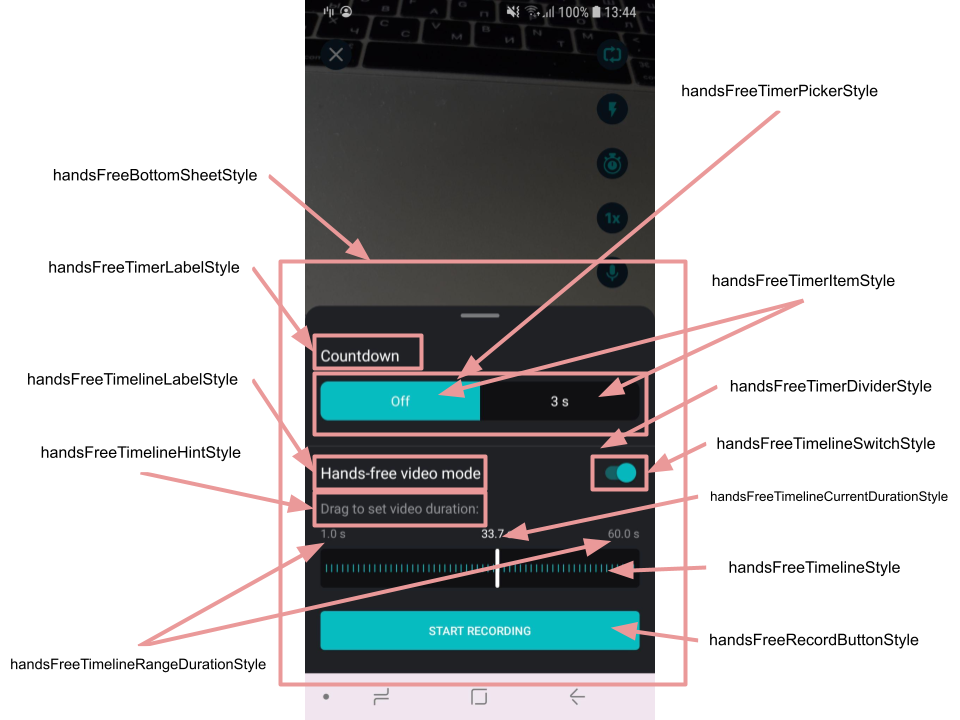
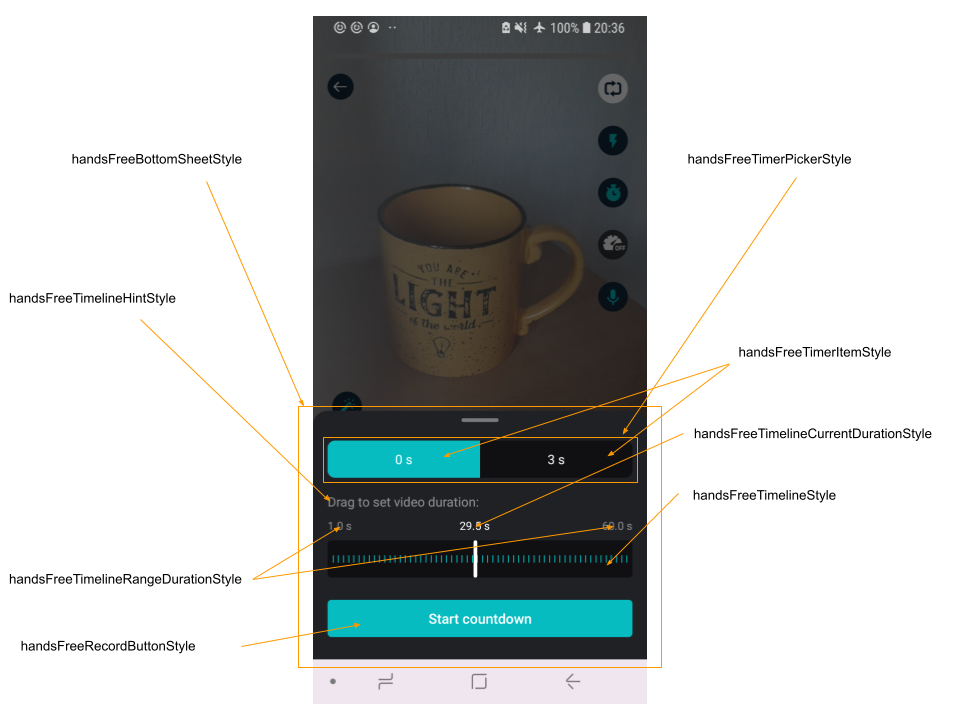
Update hands free  documentation

diff --git a/mddocs/hands_free.md b/mddocs/hands_free.md
@@ -10,7 +10,7 @@ Hands-Free feature uses `CameraTimerStateProvider` implementation for available 
 
 Every chosen delay (`TimerEntry` object) from `CameraTimerStateProvider` passed as an argument into `animate()` method of `CameraTimerAnimationProvider`. 
 
-**Note**: We provide `DefaultTimerAnimationProvider` with 10-seconds timer animation. If you need either more than 10-seconds timer or another animation view you need to implement your own `CameraTimerAnimationProvider`.
+**Note**: We provide `DefaultCameraTimerAnimationProvider` with 10-seconds timer animation. If you need either more than 10-seconds timer or another animation view you need to implement your own `CameraTimerAnimationProvider`.
 
 If you want to disable hands free feature you should remove `CameraTimerActionProvider` implementation in `VideoEditorKoinModule`.
 ```diff
@@ -46,12 +46,8 @@ Customize Hands Free appearance by overriding default [styles](https://github.co
 Hands-Free is customized by [main theme attributes](https://github.com/Banuba/ve-sdk-android-integration-sample/blob/1e37324dea76304e8e9205d463844ac5c8c199f7/app/src/main/res/values/themes.xml#L347) like any other Video Editor SDK screens.
 
  - **handsFreeBottomSheetStyle** - style for the background of Hands Free feature
- - **handsFreeTimerLabelStyle** - style for the label of timer options
  - **handsFreeTimerPickerStyle** - style for the parent view containing timer options
  - **handsFreeTimerItemStyle** - style for every item within timer options container
- - **handsFreeTimerDividerStyle** - style for the divider that separates timer options and timeline settings
- - **handsFreeTimelineLabelStyle** - style for the label of timeline options
- - **handsFreeTimelineSwitchStyle** - style for the switcher that enables hands-free configurations
  - **handsFreeTimelineHintStyle** - style for the timeline hint
  - **handsFreeTimelineRangeDurationStyle** - style for the time labels that define min and max available video duration
  - **handsFreeTimelineCurrentDurationStyle** - style for the time label that define the video recording duration recently configured
@@ -64,8 +60,5 @@ Hands-Free is customized by [main theme attributes](https://github.com/Banuba/ve
 
 | ResourceId        |      Value      |   Description |
 | ------------- | :----------- | :------------- |
-| hands_free_timer_label | Countdown | label of timer options
-| hands_free_timer_off | Off | text representing that the timer is off 
-| hands_free_timeline_label | Hands-free video mode | label of timeline options
 | hands_free_timeline_hint | Drag to set video duration: | text of the timeline hint
 | hands_free_record_button_text | start recording | label of the recording button
